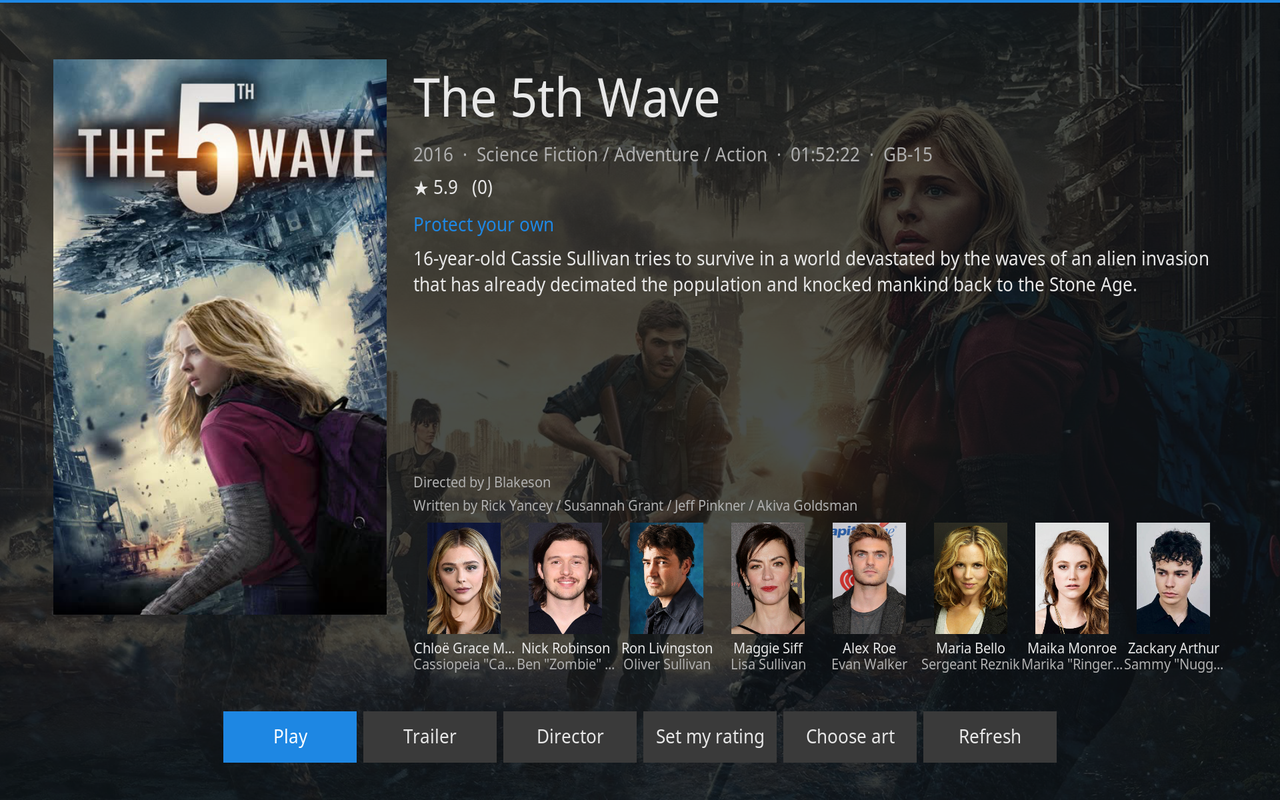
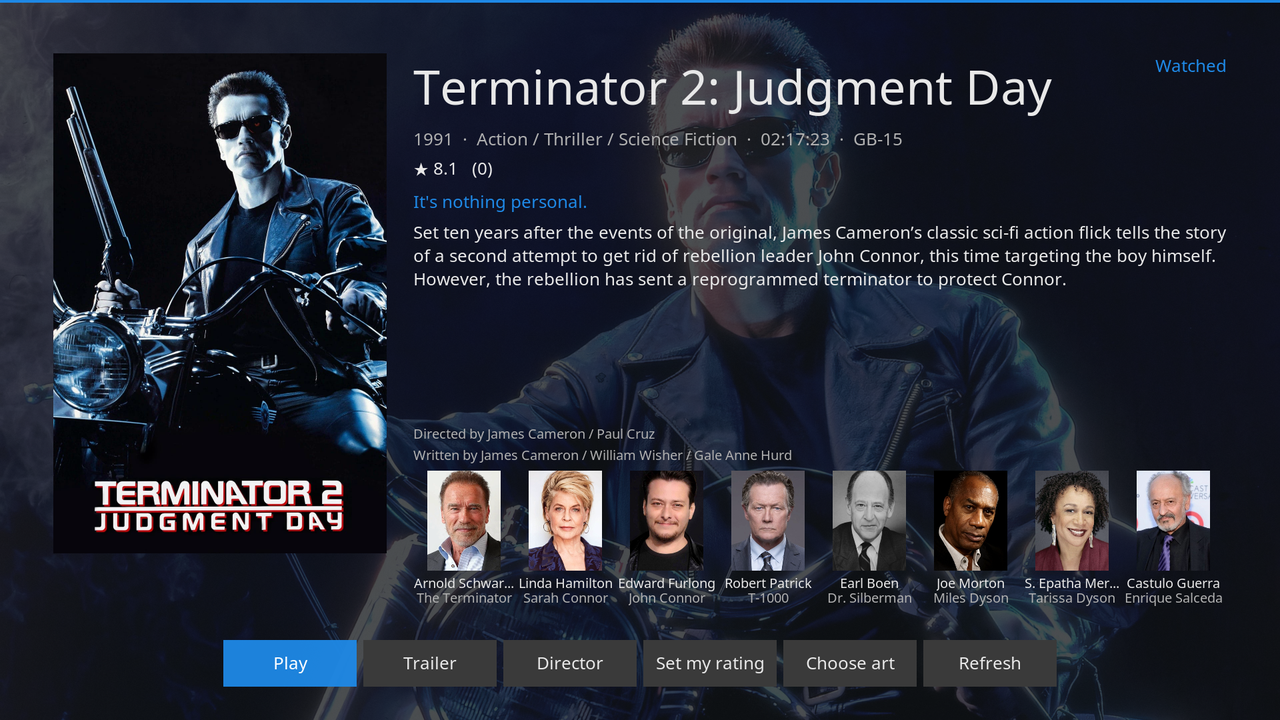
README: add screenshots and document the 0.8.5 background options
Nine shots taken at 1920x1080 against a real library and downscaled to
1280x720 (the previous set was captured at 16:10 and stretched). Terminator 2
is the movie in every playback shot. Also documents Show On All Screens and
Keep Playing Video Behind Menus in the Backgrounds and Customisation
sections, which the new screenshots show.

diff --git a/README.md b/README.md
@@ -2,7 +2,22 @@
 
 A clean, opinionated Kodi skin built for clarity. No bloat, no clutter, just your library, front and centre.
 
-<!-- Add screenshots here: ![Home](screenshots/home.png) -->
+## Screenshots
+
+![Home screen](screenshots/home.png)
+
+Home: library stats, clock, and a rotating fanart background.
+
+|  |  |
+| --- | --- |
+| ![Video playing behind the home menu](screenshots/video-behind-menus.png) | ![Video playing behind the library](screenshots/video-behind-library.png) |
+| Playback keeps running behind the menus, so you can browse without stopping the film. | The same thing on a library screen, not just on home. |
+| ![Gallery view](screenshots/gallery.png) | ![List view](screenshots/list-view.png) |
+| Gallery view: poster grid with watched badges and a metadata info bar. | List view, with the background showing through on every screen. |
+| ![Slide-out library options](screenshots/library-options.png) | ![Movie info](screenshots/movie-info.png) |
+| Slide-out library options: view, sort, filter and layout, without leaving the list. | Movie info: plot, cast with roles, and the actions you actually use. |
+| ![Video OSD](screenshots/video-osd.png) | ![Skin settings](screenshots/skin-settings.png) |
+| A tight video OSD with elapsed time, finish time and a resolution badge. | Skin settings: everything configurable, changes apply immediately. |
 
 ## Features
 
@@ -28,6 +43,11 @@ One unified **Background** selector so the modes can never conflict:
 - **Slideshow: Folder**: cycles every picture in a folder you choose (browse with thumbnails and tap any image in the target folder)
 
 Plus a configurable rotate interval (10s / 30s / 1m / 2m / 5m; unset = 20s), a dim level (0-90%) so text stays readable, and a caption position for the slideshow/static label. Every background option also exists per time-of-day slot: a 2-4-slot schedule (each slot with its own start time) swaps the whole background configuration on the clock.
+
+The background is not limited to the home screen:
+
+- **Show On All Screens**: paints the same background behind the library, settings and every other window, with its own separate dim level so list rows and labels stay readable over it
+- **Keep Playing Video Behind Menus**: leave a film playing, press back, and the picture keeps running behind the menus while you browse. Works whether or not the background is shown on all screens
 
 ### Video Library
 
@@ -99,7 +119,7 @@ A lightweight Python service handles what the skin engine can't do alone, with a
 All settings live in **Settings > Skin Settings**, organised into five categories:
 
 - **Overall**: accent colour (Blue, Red, Green, Orange, Amber, Purple, Teal, Pink), notification position (6 placements), and Diagnostics (debug logging + log folder)
-- **Background**: the unified background mode, image/folder picker, dim, slideshow interval and caption position
+- **Background**: the unified background mode, image/folder picker, dim, slideshow interval, caption position, the time-of-day schedule, and whether the background (or live video) shows on every screen
 - **Home Screen**: show/hide each menu item (incl. Weather), stats panels, Favourites/Add-ons/Power buttons, logo, footer, date/time, loading splash; main menu position; invisible round buttons; weather widget; default Favourites filter
 - **Media Selection**: gallery thumbnail size, small-grid column count, poster shape, info bar position, context menu position (centre or left edge), and toggles for every metadata field
 - **Video OSD**: OSD position, OSD thumbnail, and the video dim level
